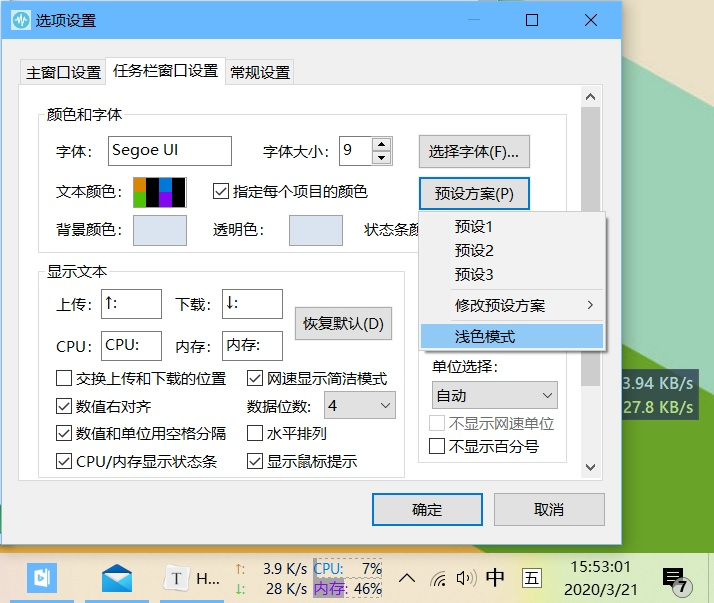
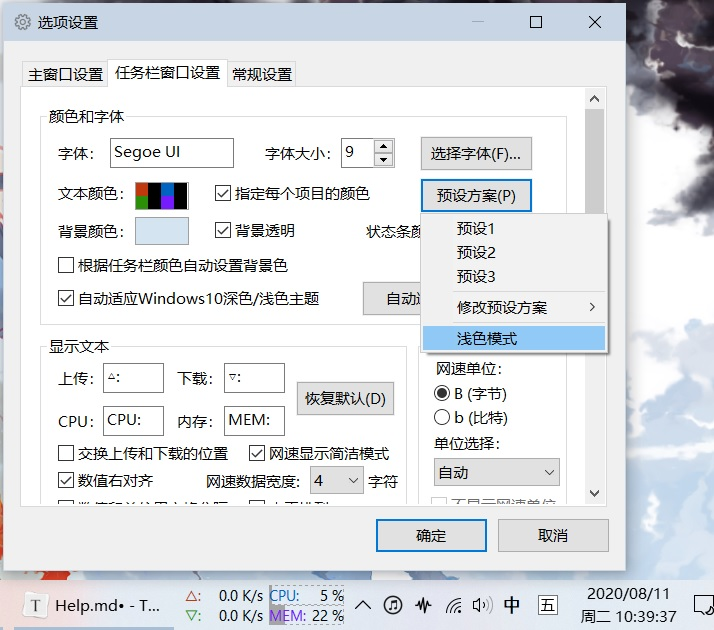
文档更新

diff --git a/Help.md b/Help.md
@@ -2,13 +2,16 @@
 
 # TrafficMonitor 常见问题
 ### 1. 如何显示CPU和内存利用率？
-在主窗口点击右弹出键菜单，勾选“显示更多信息”。如果需要在任务栏窗口中也显示CPU和内存利用率，则在任务栏窗口中点击右键弹出菜单，勾选“显示CPU和内存利用率”即可。
+在主窗口点击右弹出键菜单，勾选“显示更多信息”。如果需要在任务栏窗口中也显示CPU和内存利用率，则在任务栏窗口中点击右键弹出菜单，在“显示设置<img src="./Screenshots/images/item.png" style="zoom: 80%;" />”子菜单下勾选“CPU和内存利用率”即可。
 ### 2. 如何单独设置任务栏窗口中每个项目的颜色？
 在右键菜单中选择“选项”，切换到“任务栏窗口设置”，勾选“指定每个项目的颜色”，此时再点击“文本颜色”右边的颜色块，就会弹出“任务栏窗口颜色设置”的对话框了。<br>
 如果不勾选“指定每个项目的颜色”，则只能为文本设置统一的颜色。
 
 ### 3. 设置了开机自动运行仍然无法开机自启。
 程序的开机启动功能是通过在注册表“计算机\HKEY_CURRENT_USER\Software\Microsoft\Windows\CurrentVersion\Run”中创建“TrafficMonitor”的注册表项来实现的，如果你遇到无法开机启动的问题，请先检查该注册表项是否存在，再检查程序的路径是否正确。如果你移动了程序的位置，则会因为路径无效导致开机自启动失效，此时只需要在选项设置中取消“开机自动运行”的勾选，再将其勾选上就可以了。<br>
+
+注意，某些第三方安全软件可能会阻止TrafficMonitor的开机自启动，请尝试在安全软件中允许TrafficMonitor开机自启动。
+
 如果设置了以管理员身份运行也会出现开机无法自启动的问题，请尝试去掉以管理员身份运行。<br>
 
 ### 4. 程序弹出“无法保存设置”的对话框。
@@ -33,6 +36,8 @@ portable_mode = true
 
 执行以上步骤后理论上应该不会出现这种问题了。如果这个问题仍然出现，请尝试把C:\Users\\<用户名\>\AppData\Roaming\TrafficMonitor\config.ini删除，该文件会在删除后重新生成。
 
+在1.79以后的版本中，如果程序所在目录无法写入数据，会自动将配置和数据文件保存到C:\Users\\<用户名\>\AppData\Roaming\TrafficMonitor目录，此时，“选项”——“常规设置”——“数据和配置文件”中“保存到程序所在目录”将不可用。
+
 ### 5. 多显示器时悬浮窗只能在主显示器中显示。
 默认情况下做了让悬浮窗无法超出屏幕边界的处理，如果需要将悬浮窗移动到其他显示器，请在悬浮窗中点击右键弹出菜单，选择“其他功能”，勾选“允许超出屏幕边界”，此时悬浮窗不再限制在屏幕内，也能移动到任意显示器中了。<br>
 如果移除额外的显示器，那么悬浮窗可能会出现在屏幕区域外导致不可见，此时只需要在通知区域图标上点击鼠标右键，选择“其他功能”，去掉“允许超出屏幕边界”的勾选，悬浮窗就会重新出现屏幕范围内了。
@@ -44,6 +49,7 @@ portable_mode = true
 设置了鼠标穿透后，悬浮窗将无法响应任何鼠标消息，也无法弹出右键菜单，但是可以通过通知区图标来弹出右键菜单。主窗口的右键菜单和通知区图标的右键是完全一样的。<br>
 另外，即使你之前设置了隐藏通知区图标，开启鼠标穿透后，通知区图标也会自动显示出来，防止无法弹出右键菜单。<br>
 说明：以下几种情况下通知区图标会自动显示出来：<br>
+
 * 开启鼠标穿透后；
 * 不显示任务栏窗口的情况下隐藏主窗口后；
 * 隐藏主窗口的情况下关闭任务栏窗口后；
@@ -54,22 +60,20 @@ portable_mode = true
 
 <img src="./Screenshots/images/image2.jpg" style="zoom:80%;" />
 
-但是如果你遇到了点击任务栏窗口空白区域（下图中“3”处的箭头指向的区域）会弹出任务栏右键菜单而不是TrafficMonitor右键菜单的问题，你可以尝试以下步骤：
+同时，你还可能勾选“自动适应Windows10深色/浅色主题”，程序会在Windows10深色/浅色主题更换时自动切换颜色方案。你可以点击“自动适应设置”按钮来配置在深色和浅色主题时分别使用哪个颜色预设。
 
-<img src="./Screenshots/images/image1.jpg" style="zoom:80%;" />
-
-1. 点击“背景颜色”，弹出“颜色”对话框。
-2. 点击“选择”按钮从屏幕选取一个颜色。
-3. 选择任务栏窗口空白区域的颜色（图中“3”处的箭头指向的区域）。（是的，不用管任务栏是否透明，也不用管你的壁纸是什么颜色，直接选取就好，我也不知道为什么。。。）
-4. 将透明色设置成和刚刚背景颜色完全一样的颜色。
-
-这样做之后点击任务栏窗口空白区域就可以正常弹出TrafficMonitor的右键菜单了，即使更换壁纸或重启电脑仍然有效。
-
-### 9. 在Win7/Win8/Win8.1下任务栏窗口有个背景色，无法完全透明
+### 9. 在Windows7/Windows8/8.1下任务栏窗口有个背景色，无法完全透明
 这个问题确实存在，但是在Win10下是正常的。这个问题暂时无法解决。
+
+在1.79以后的版本中，Windows8/8.1下可以在“选项”——“任务栏窗口设置”中勾选“背景色透明”，再勾选“根据任务栏颜色自动设置背景色”即可获得较好的显示效果。
+
 ### 10. 任务栏窗口有时会显示不全，比如单位被覆盖了
 这确实是一个BUG，但是我目前还没有找到一个好的解决方法，这个问题通常出现在任务栏右侧通知区域宽度变化的时候，主要在在切换输入法的时候，如果出现了这个问题，可以将通知区任意一个图标向上拖动将其隐藏，再将其拖下来即可恢复正常。<br>
 出现这个问题原因在于，由于系统任务栏通知区的图标数量可能会发生变化，导致通知区的宽度也会时常变化，当通知区的宽度发生变化时，TrafficMonitor的任务栏窗口需要实时调整其位置。但是由于我无法知道通知区的宽度在什么时候变化，因此只能每隔一段时间判断是否需要调整位置，如果任务栏通知区域的宽度变化得太快，就会导致TrafficMonitor的任务栏无法及时调整其位置，从而导致了这个BUG。<br>
+
+### 11. Windows10中开启HDR后任务栏窗口无法显示
+
+部分用户反馈，在Windows10中开始HDR功能会导致任务栏窗口无法显示器。由于我并没有支持HDR的显示器，因此无法调查这个问题，也无法给出解决方案。果你遇到了这个问题，建议关闭HDR功能。
 
 #### 以下步骤或许可以解决这个问题：<br>
 * 打开“设置”

diff --git a/Help_en-us.md b/Help_en-us.md
@@ -1,14 +1,18 @@
 **[简体中文](./Help.md) | English**<br>
 # TrafficMonitor Frequently Asked Questions
 ### 1. How to show the CPU and memory usage?
-Right click the main window and check "Show More Info". If you also need to display the CPU and memory usage in the taskbar window, right click the taskbar window and check "Show CPU and Memory Usage".
+Right click the main window and check "Show More Info". If you also need to display the CPU and memory usage in the taskbar window, right click the taskbar window and check "CPU and Memory Usage" in the "Display Settings<img src="./Screenshots/images/item.png" style="zoom: 80%;" />" sub menu.
 ### 2. How do I set the color of each item in the taskbar window individually?
 Select "Options" In the right-click menu, switch to "Taskbar Window Settings" tab, check "Specify colors for each item", and then click the color block on the right side of "Text Color " to pop up the dialog box for taskbar window color settings. <br>
 If you do not check "Specify colors for each item", you can only set the uniform color for the text.
 ### 3. "Auto run when Windows start" dose not work
 The auto run function of the program is achieved by creating the "TrafficMonitor" key in the registry path of "Computer\HKEY_CURRENT_USER\Software\Microsoft\Windows\CurrentVersion\Run".
 If you encounter the problem of auto run dose not work, please check that the registry exists, and then check the program path is correct. If you move the location of the program, the auto run will be invalid because of the program location being invalid. In this case, you only need to uncheck "Auto run when Windows start" in the option settings, and then check it on.<br>
+
+Note that some third-party security software may prevent TrafficMonitor from booting up automatically. Please try to allow TrafficMonitor to boot up automatically in the security software.
+
 If you set the program to run as an administrator, the auto run function will also not work. Please try to remove running as an administrator.<br>
+
 ### 4. The program pops up the "Unable to Save Settings" message box.
 If you encountered this problem, that means the program does not have permission to write data to its directory, causing the settings data cannot be saved. Try to move the program to another folder that has write permissions will save this problem. <br>
 You can also change the save path of the configuration and data file to the C:\Users\\<username\>\AppData\Roaming\TrafficMonitor directory by the following steps. <br>
@@ -30,6 +34,8 @@ If `global_cfg.ini` does not have write permission, you can try copying the file
 
 After these steps, this problem should not theoretically occur. If this problem still occurs, try to delete the file C:\Users\\<username\>\AppData\Roaming\TrafficMonitor\config.ini. This file will be regenerated after it is deleted. 
 
+In version 1.79 and later, if the directory where the program located is not writable, the configuration and data files will be automatically saved to the "C:\Users\\<username\>\AppData\Roaming\TrafficMonitor" directory. At this time, "Options" -“General Settings”-“Save to the program directory” in “Configuration and data files” will not be available.
+
 ### 5. The suspension window can only be displayed on the main monitor when multiple monitors are present.
 By default, the suspension window cannot be moved out of the screen boundaries. If you need to move the suspension window to other monitors, please right click the suspension window, select "Other Functions", check "Allow Out of Screen Boundaries". At this time the suspension window is no longer limited to the screen, it can be also move to any monitors. <br>
 If you remove the extra monitor, then the suspension window may appear outside the screen area to cause the invisible. At this time, you only need to right click the the icon in the notification area, select "Other function", uncheck "Allow Out of Screen Boundaries", the suspension window will appear in the screen area again.
@@ -49,16 +55,11 @@ When using the white taskbar theme, you can click the "Preset" button in the "Ta
 
 <img src="./Screenshots/images/image2.jpg" style="zoom:80%;" />
 
-However, if you encounter the problem that clicking the blank area of the taskbar window (the area pointed by the arrow at "3" in the figure below) will pop up the taskbar right-click menu instead of the TrafficMonitor right-click menu, you can try the following steps:
+At the same time, you may also check "Auto adapt to Windows 10 dark/light theme", the program will automatically switch the color preset when Windows 10 dark/light theme is changed. You can click the "Auto Adapt settings" button to configure which color preset to use for dark and light themes.
 
-<img src="./Screenshots/images/image1.jpg" style="zoom:80%;" />
+### 9. The taskbar windows cannot be displayed when the HDR is turned on in Windows 10
 
-1. Click "Background color" to bring up the "Color" dialog box.
-2. Click the "Select" button to choose a color from the screen.
-3. Select the color of the blank area of the taskbar window (the area pointed by the arrow at "3" in the figure). (Yes, it doesn't matter whether the taskbar is transparent or what color your wallpaper is. Just select it directly, I don't know why ...)
-4. Set the transparent color to exactly the same as the background color just now.
-
-After doing this, click on the empty area of the taskbar window will pop up the TrafficMonitor right-click menu normally, even if you change the wallpaper or restart the computer.
+Some users have reported that turning on the HDR function in Windows 10 will cause the taskbar window to fail to display. Since I don't have a monitor that supports HDR, I can't investigate this problem, nor can I give a solution. If you encounter this problem, it is recommended to turn off the HDR function.
 
 <br><br>
 

diff --git a/UpdateLog/update_log_en-us.md b/UpdateLog/update_log_en-us.md
@@ -1,6 +1,11 @@
 **[简体中文](./update_log.md) | [繁體中文](./update_log_zh-tw.md) | English**<br>
 
 # TrafficMonitor Update log
+## V1.79.1 (2020/08/05)
+
+* Fix the problem of registry handle leak.
+* Fixed the problem that CPU and memory usage are not counted when the main window and taskbar window are not displayed.
+
 ## V1.79 (2020/07/30)
 
 * Add the function of automatically adapts to the Windows 10 dark/light theme of the taskbar window color.

diff --git a/UpdateLog/update_log_zh-tw.md b/UpdateLog/update_log_zh-tw.md
@@ -1,5 +1,11 @@
 **[简体中文](./update_log.md) | 繁體中文 | [English](./update_log_en-us.md)**<br>
+
 # TrafficMonitor 更新日誌
+## V1.79.1 (2020/08/05)
+
+* 修正登錄檔控制碼洩漏的問題。
+* 修正當主視窗和工作列視窗都不顯示時，不統計CPU和記憶體利用率的問題。
+
 ## V1.79 (2020/07/30)
 
 * 新增工作列視窗顏色自動適應Windows10深色/淺色主題的功能。

diff --git a/UpdateLog/update_log.md b/UpdateLog/update_log.md
@@ -1,5 +1,10 @@
 **简体中文 | [繁體中文](./update_log_zh-tw.md) | [English](./update_log_en-us.md)**<br>
 # TrafficMonitor 更新日志
+## V1.79.1 (2020/08/05)
+
+* 修正注册表句柄泄漏的问题。
+* 修正当主窗口和任务栏窗口都不显示时，不统计CPU和内存利用率的问题。
+
 ## V1.79 (2020/07/30)
 
 * 新增任务栏窗口颜色自动适应Windows10深色/浅色主题的功能。

diff --git a/README_en-us.md b/README_en-us.md
@@ -32,7 +32,7 @@ Colorful Skins:<br>
 Change Skins:<br>
 ![](./Screenshots/en_us/selecte_skin.png)<br>
 Options:<br>
-![](./Screenshots/en_us/option.png)<br>
+<img src="./Screenshots/en_us/option.jpg" style="zoom:80%;" /><br>
 
 # Update log
 **[Click here to view the update log.](./UpdateLog/update_log_en-us.md)**
